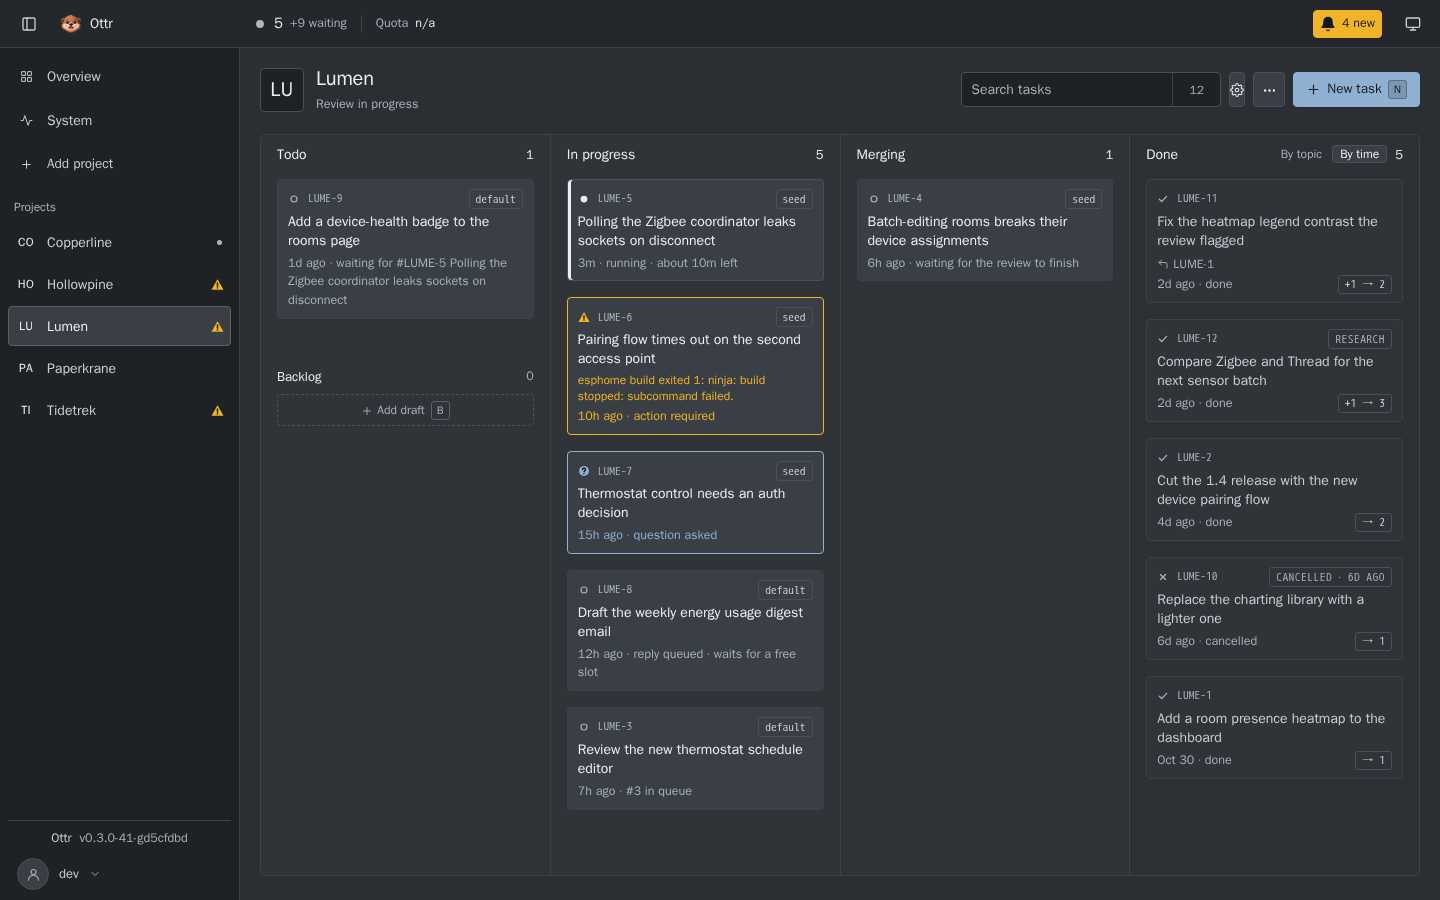
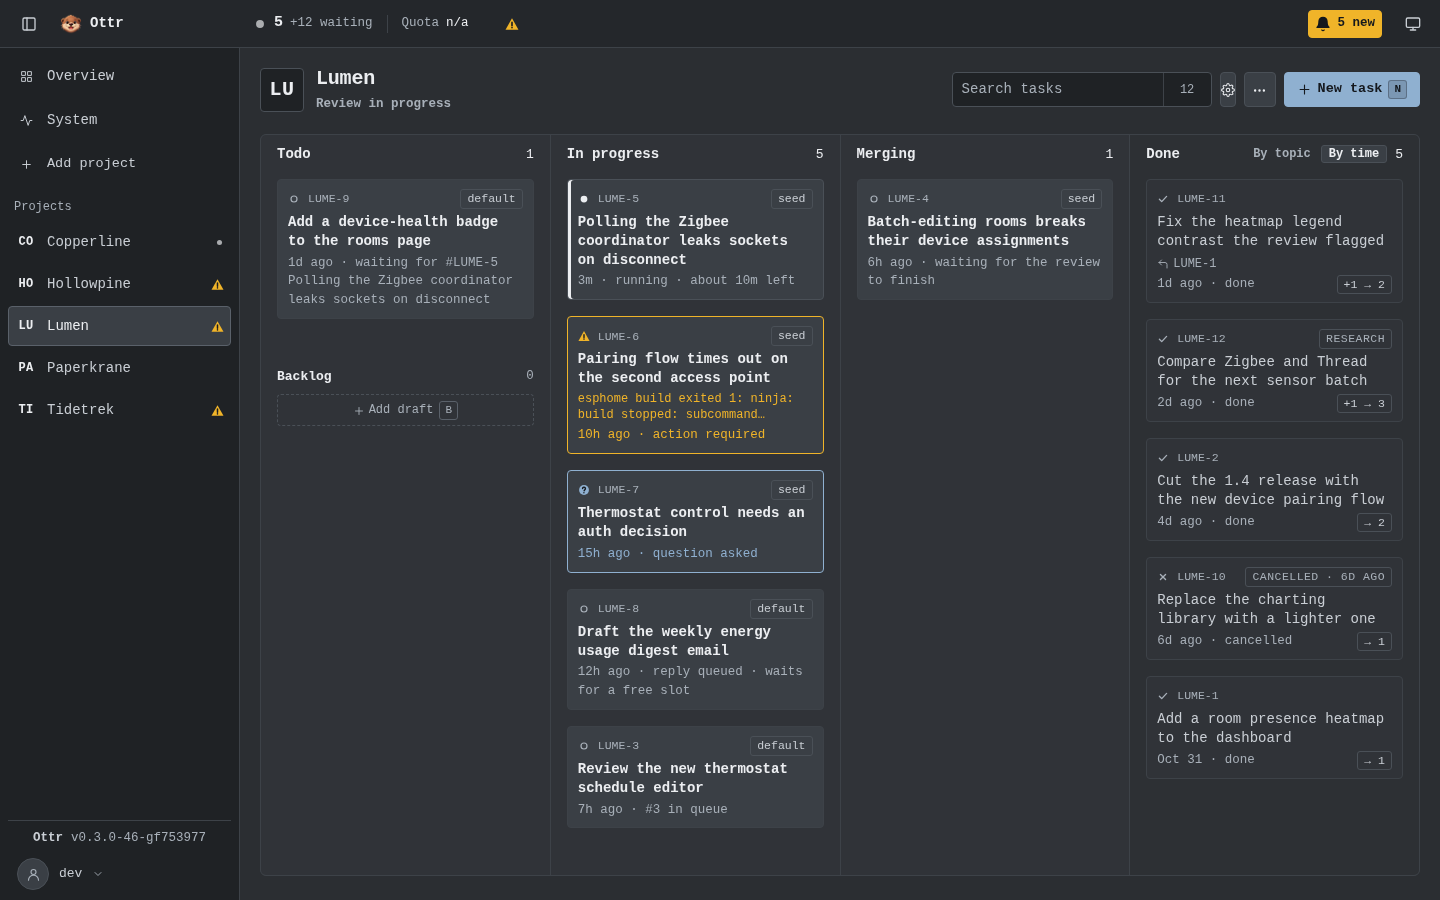
fix: follow the typography and token rules in the UI
- Rendered markdown (.md) stops at a 75ch measure (DESIGN.md Typography,
  ui-ux-check 46); the drawer column is narrower, so nothing shifts there.
- Counts render grouped through one shared Intl.NumberFormat helper
  (fmtNum in the new src/ui/numbers.ts): the mutation figures, the stage
  tab and lane counts, the send-answers button, and the memory event
  counter (ui-ux-check 45). The digits stay tabular.
- The state-mark ink strokes and the lightbox ink leave raw hex for new
  tokens in both themes: --mark-ink, --mark-ink-crit, --on-scrim; the
  rendered colors are unchanged (ui-ux-check 47).
- Refresh the README board screenshot.

diff --git a/src/ui/app.css b/src/ui/app.css
@@ -30,6 +30,9 @@
 	--on-alarm: #14181d; /* ink on a solid amber fill */
 	--on-crit: #1d0d0c; /* ink on a solid red fill */
 	--on-grey: #14181d; /* ink on a solid grey fill: status you cannot click */
+	--mark-ink: #1c1e21; /* dark "!" ink strokes on the state marks; fixed across themes */
+	--mark-ink-crit: #fff4f2; /* the ink flips near-white on the red square */
+	--on-scrim: #faf9f6; /* text over a dark image scrim: the lightbox */
 	--diff-add: #7cc97f; /* added diff lines: the one non-alarm colour, diff text only */
 	--diff-add-bg: rgb(63 138 66 / 0.16);
 	--line-hover: #5a616a;
@@ -74,7 +77,10 @@
 	--crit-text: #b3261e;
 	--on-alarm: #faf9f6;
 	--on-crit: #faf9f6;
-	--on-grey: #14181d; /* ink on a solid grey fill: status you cannot click */
+	--on-grey: #14181d;
+	--mark-ink: #1c1e21;
+	--mark-ink-crit: #fff4f2;
+	--on-scrim: #faf9f6;
 	--diff-add: #1a7f37;
 	--diff-add-bg: rgb(52 153 77 / 0.14);
 	--scrim: rgba(30, 34, 40, 0.4);
@@ -554,12 +560,12 @@ textarea {
 }
 .mark-ink {
 	fill: none;
-	stroke: #1c1e21;
+	stroke: var(--mark-ink);
 	stroke-width: 1.9;
 	stroke-linecap: round;
 }
 .mark-crit .mark-ink {
-	stroke: #fff4f2;
+	stroke: var(--mark-ink-crit);
 }
 .mark-running,
 .mark-preparing {
@@ -4101,7 +4107,7 @@ dialog.lightbox {
 	border: 0;
 	border-radius: 50%;
 	background: rgb(1 0 19 / 0.55);
-	color: #faf9f6;
+	color: var(--on-scrim);
 	cursor: pointer;
 }
 .lightbox .page {
@@ -4143,7 +4149,7 @@ dialog.lightbox {
 	padding: 4px 10px;
 	border-radius: 4px;
 	background: rgb(1 0 19 / 0.7);
-	color: #faf9f6;
+	color: var(--on-scrim);
 	font-size: 13px;
 	overflow-wrap: anywhere;
 	text-align: center;
@@ -6669,10 +6675,12 @@ button.log-mode[aria-pressed="true"] {
 	background: var(--card);
 	border-color: var(--line);
 }
-/* Markdown prose: results, research reports, release notes. */
+/* Markdown prose: results, research reports, release notes. The measure stops at
+   75ch, because a long line is hard to read (DESIGN.md "Typography"). */
 .md {
 	display: grid;
 	gap: 8px;
+	max-width: 75ch;
 	overflow-wrap: anywhere;
 }
 .md h1,

diff --git a/src/ui/app.tsx b/src/ui/app.tsx
@@ -143,6 +143,7 @@ import {
 	saveComposeDraft,
 	seenToDrop,
 } from "./notify.ts";
+import { fmtNum } from "./numbers.ts";
 import {
 	autoMarkOnOpen,
 	donePage,
@@ -1318,8 +1319,10 @@ function eventCount(total: number | null, hour: number | null): ReactNode {
 	if (total === null) return "n/a";
 	return (
 		<>
-			{total}
-			{hour !== null && <span className="sys-sub"> +{hour} in 1 h</span>}
+			{fmtNum(total)}
+			{hour !== null && (
+				<span className="sys-sub"> +{fmtNum(hour)} in 1 h</span>
+			)}
 		</>
 	);
 }
@@ -3794,7 +3797,9 @@ export function ProjectBoard({
 							{c.key !== "done" && (
 								<>
 									<span className="tabs-digits">
-										{q === "" ? count.shown : `${count.shown}/${count.total}`}
+										{q === ""
+											? fmtNum(count.shown)
+											: `${fmtNum(count.shown)}/${fmtNum(count.total)}`}
 									</span>
 									{count.alarm !== null && (
 										<span
@@ -3959,8 +3964,8 @@ export function ProjectBoard({
 								)}
 								<span className={q === "" ? "count" : "count filtered"}>
 									{q === "" && doneHidden === 0
-										? col.length
-										: `${col.length}/${count.total}`}
+										? fmtNum(col.length)
+										: `${fmtNum(col.length)}/${fmtNum(count.total)}`}
 								</span>
 							</h2>
 							<LaneCol
@@ -7173,7 +7178,7 @@ function AskPanel({
 						onClick={send}
 					>
 						{locked && <span className="spinner" aria-hidden="true" />}
-						Send {count}/{asked.length} answers
+						Send {fmtNum(count)}/{fmtNum(asked.length)} answers
 					</button>
 				)}
 			</div>
@@ -8737,7 +8742,7 @@ export function Drawer({
 									<div>
 										<dt>Tested</dt>
 										<dd>
-											{mut.tested} / {mut.total}
+											{fmtNum(mut.tested)} / {fmtNum(mut.total)}
 										</dd>
 									</div>
 									{/* The tail's parts are known words (survived, elapsed, left, timed out); a part the format grows later keeps its raw text. */}

diff --git a/src/ui/numbers.test.ts b/src/ui/numbers.test.ts
@@ -1,0 +1,23 @@
+import { describe, expect, test } from "bun:test";
+import fc from "../test/properties.ts";
+import { fmtNum } from "./numbers.ts";
+
+describe("fmtNum", () => {
+	test("groups thousands and leaves short counts alone", () => {
+		expect(fmtNum(0)).toBe("0");
+		expect(fmtNum(12)).toBe("12");
+		expect(fmtNum(999)).toBe("999");
+		expect(fmtNum(6523)).toBe("6,523");
+		expect(fmtNum(1_891_234)).toBe("1,891,234");
+	});
+
+	test("property: the grouped value parses back to the same integer", () => {
+		fc.assert(
+			fc.property(fc.integer({ min: 0, max: Number.MAX_SAFE_INTEGER }), (n) => {
+				const shown = fmtNum(n);
+				expect(shown).toMatch(/^\d{1,3}(,\d{3})*$/);
+				expect(Number(shown.replaceAll(",", ""))).toBe(n);
+			}),
+		);
+	});
+});

diff --git a/src/ui/numbers.ts b/src/ui/numbers.ts
@@ -1,0 +1,8 @@
+/** Count readouts render grouped: "1,891 / 6,523" (DESIGN.md "Typography", ui-ux-check 45).
+ *  en-US is fixed, so tests and screenshots never depend on the viewer's locale. */
+const grouped = new Intl.NumberFormat("en-US");
+
+/** Formats an integer with the thousands separator; CSS keeps the digits tabular. */
+export function fmtNum(n: number): string {
+	return grouped.format(n);
+}
